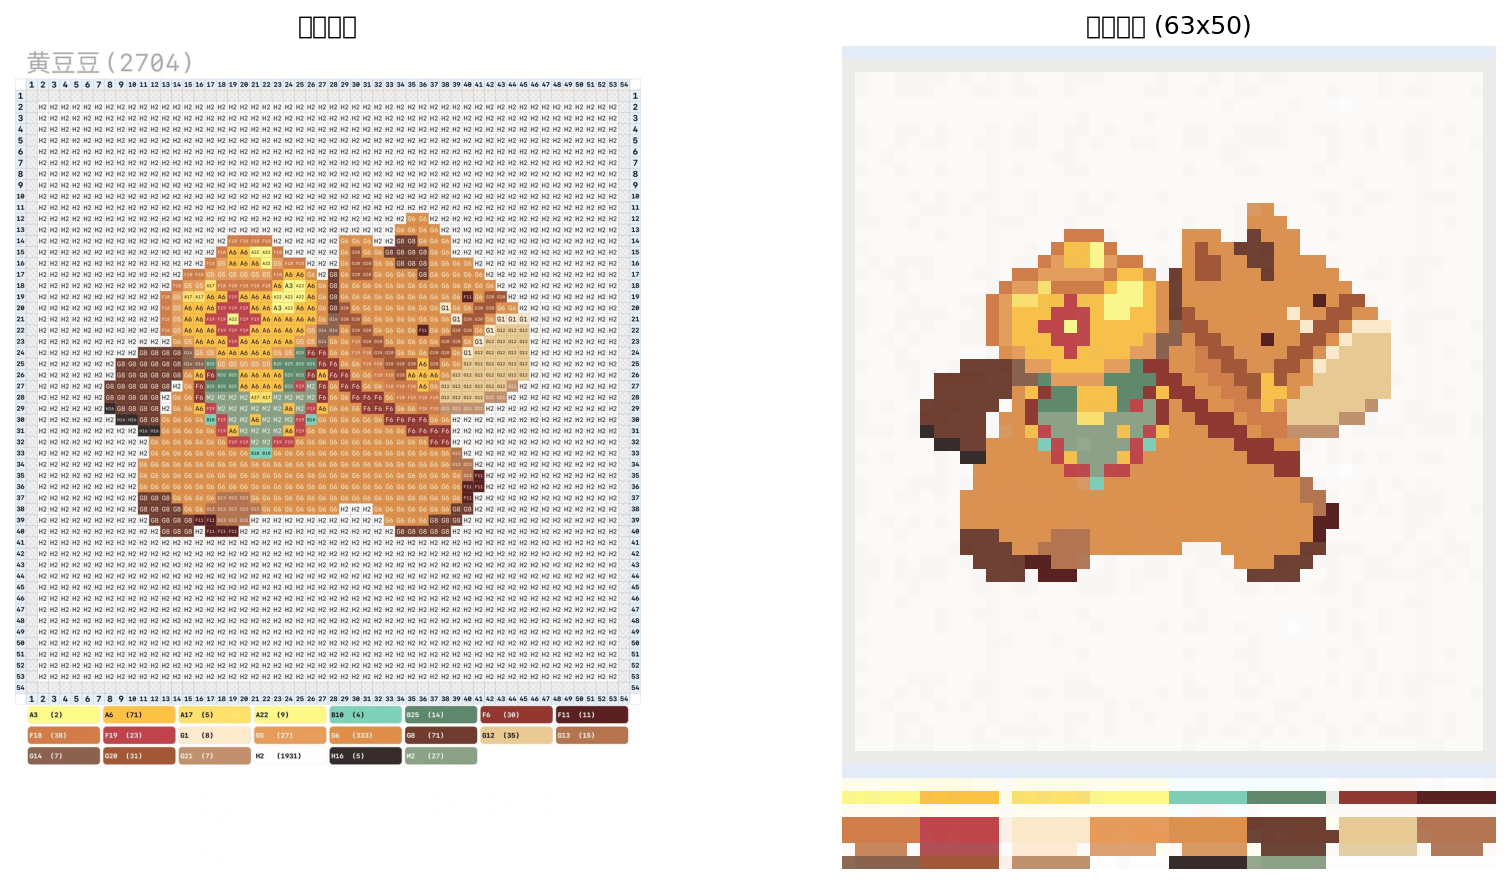
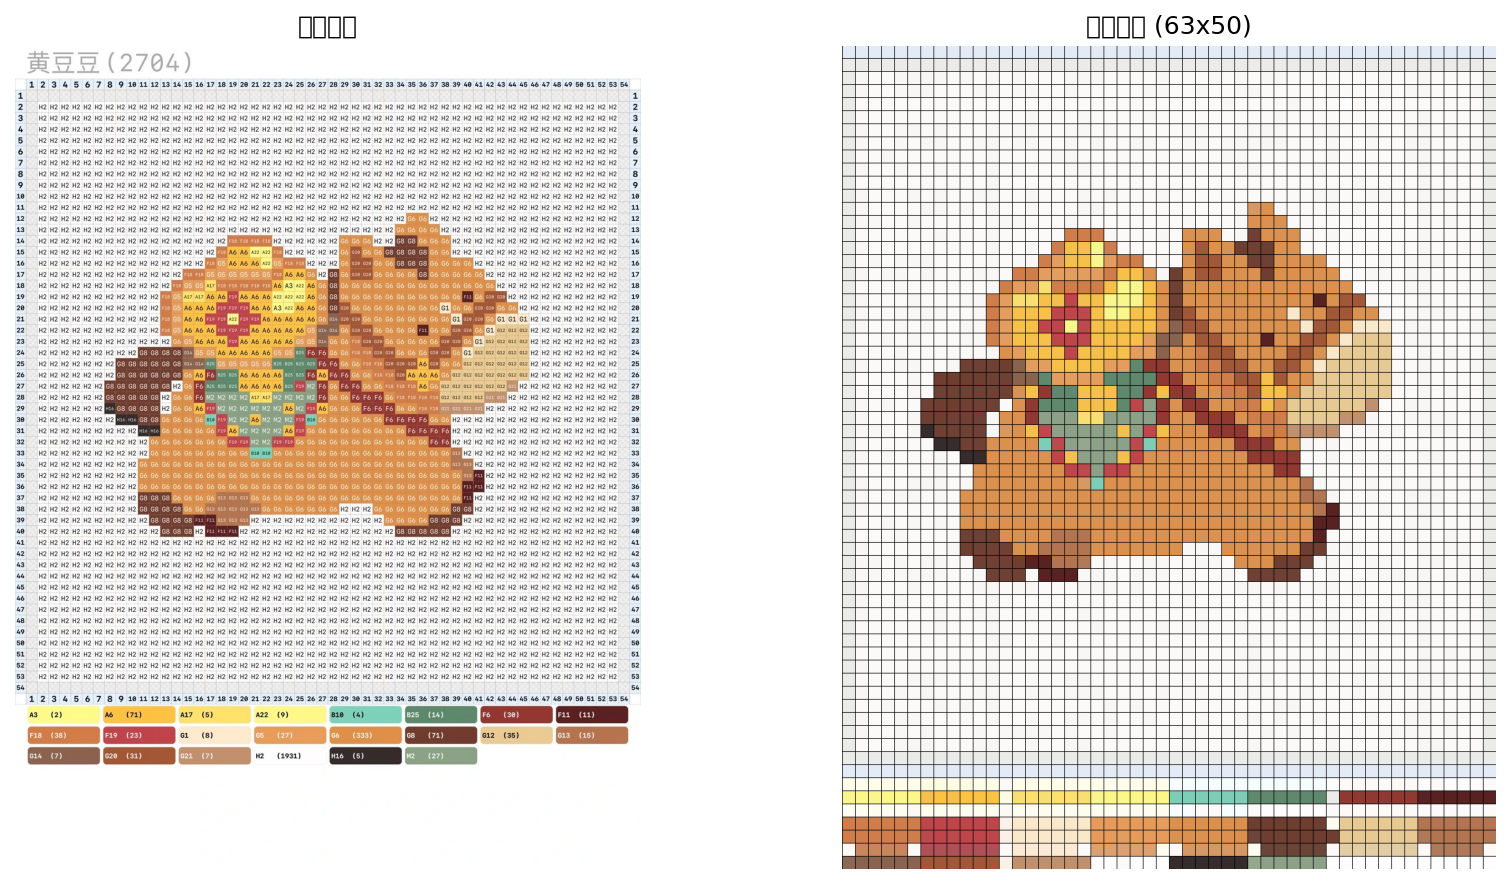
给对比图增加网格线

Changed region(s): [[0.5603, 0.0611, 0.996, 0.9774]]

diff --git a/perler_bead_detector.py b/perler_bead_detector.py
@@ -471,10 +471,34 @@ class PerlerBeadDetector:
         rows = result['rows']
         cols = result['cols']
         
-        result_image = np.zeros((rows, cols, 3), dtype=np.uint8)
+        # 创建高分辨率的结果图，每个方格放大以便绘制网格线
+        cell_size = 20  # 每个方格的像素大小
+        result_image = np.zeros((rows * cell_size, cols * cell_size, 3), dtype=np.uint8)
+        
+        # 填充颜色并绘制网格线
         for i in range(rows):
             for j in range(cols):
-                result_image[i, j] = colors[i][j]
+                r, g, b = colors[i][j]
+                # 填充方格
+                y1, y2 = i * cell_size, (i + 1) * cell_size
+                x1, x2 = j * cell_size, (j + 1) * cell_size
+                result_image[y1:y2, x1:x2] = [r, g, b]
+        
+        # 绘制网格线
+        grid_color = [0, 0, 0]  # 黑色网格线
+        line_width = 1
+        
+        # 绘制水平线
+        for i in range(rows + 1):
+            y = i * cell_size
+            if y < result_image.shape[0]:
+                result_image[max(0, y-line_width//2):min(result_image.shape[0], y+line_width//2+1), :] = grid_color
+        
+        # 绘制垂直线
+        for j in range(cols + 1):
+            x = j * cell_size
+            if x < result_image.shape[1]:
+                result_image[:, max(0, x-line_width//2):min(result_image.shape[1], x+line_width//2+1)] = grid_color
         
         # 显示对比
         fig, axes = plt.subplots(1, 2, figsize=(12, 6))
